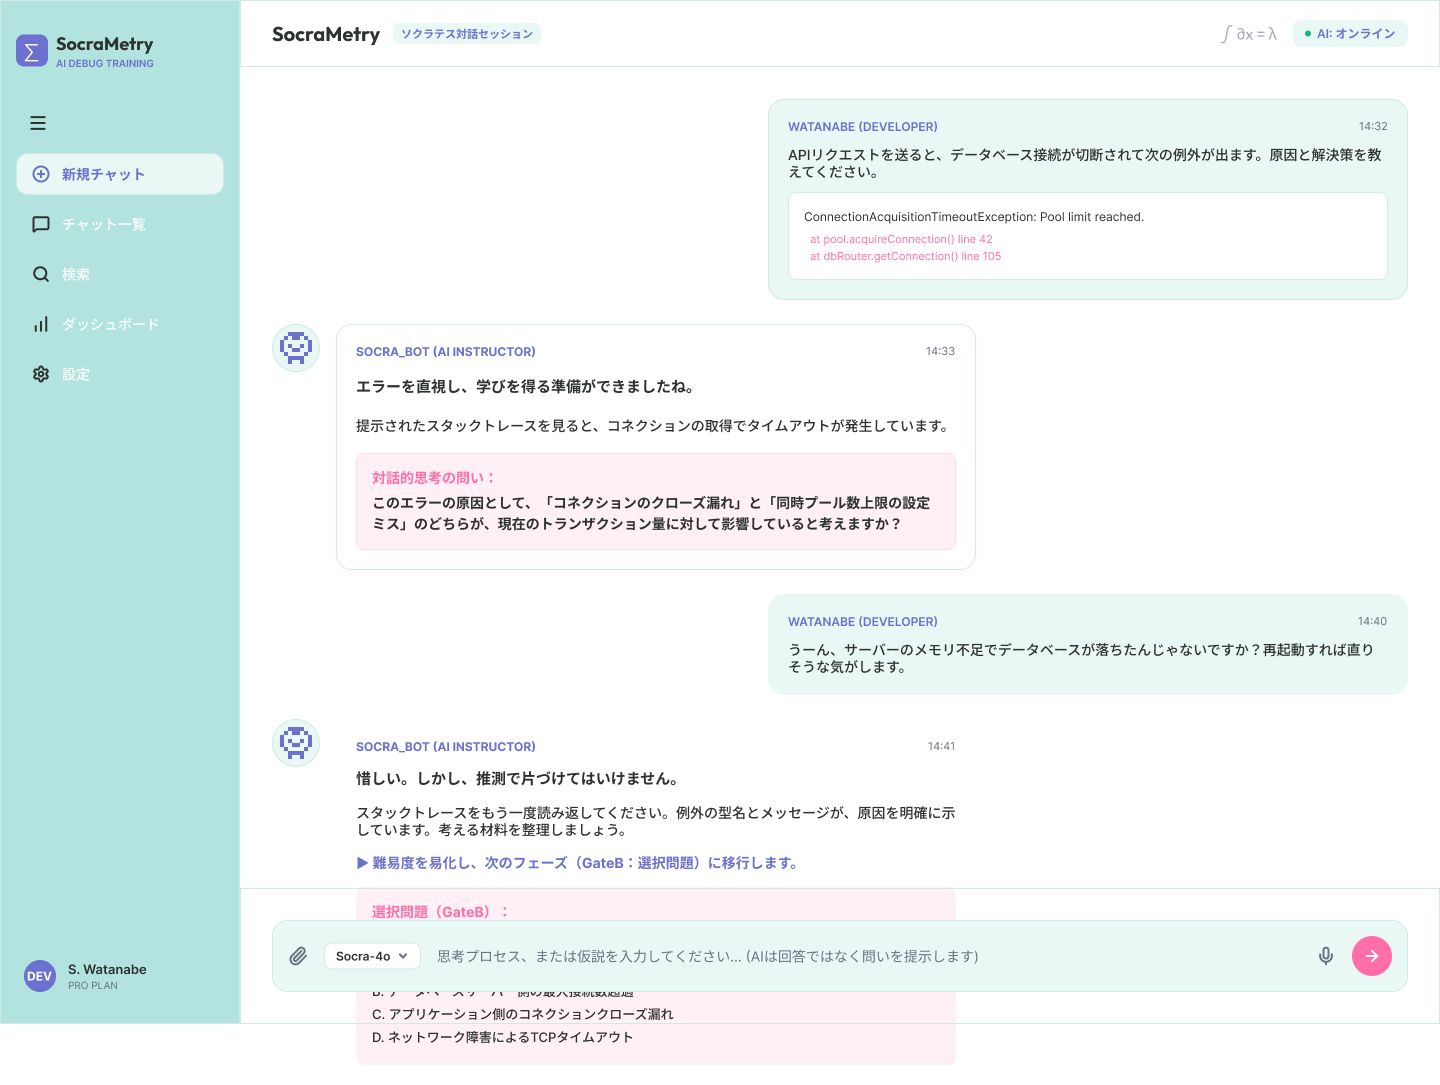
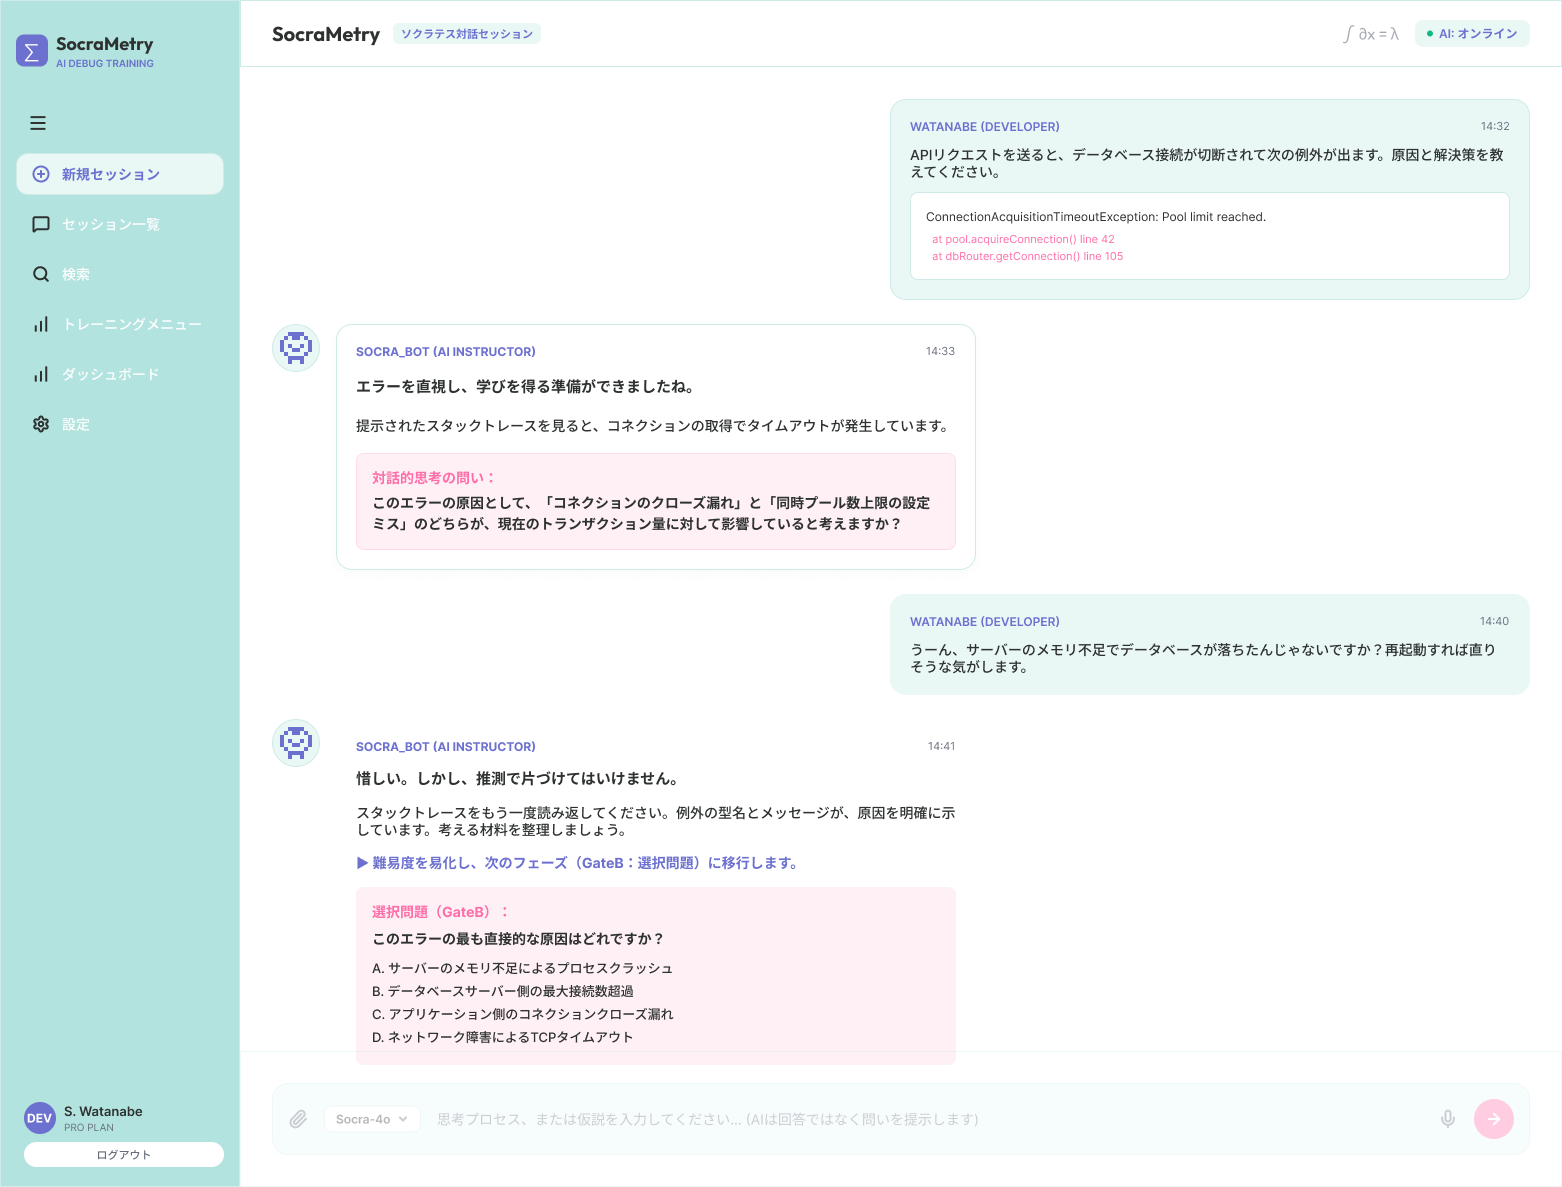
画面仕様と画面キャプチャを追加しました。

diff --git a/MOCK/screen-design.md b/MOCK/screen-design.md
@@ -1,0 +1,93 @@
+# SocraMetry 画面設計メモ
+
+## login-screen.png
+
+- アカウント新規作成タブと、ログインタブで分かれている。
+- 入力可能な構成はメールアドレス、ユーザー名、パスワード、招待コード
+- ユーザー名、招待コードは新規作成タブのみ表示されている。
+- トレーニングルームに入るボタンを押して、条件に満たしていたら chat-screen-start に遷移する。
+- 条件に満たしていなかったら login-screen-error のキャプチャのようになる。
+- モック画像には著作権マーク、利用規約、プライバシーポリシーがあるが、それらは生成しないこと。
+
+---
+
+## chat-screen-start.png
+
+- セッションに入ったら、モック画像のように SOCRA_BOT が答えを渡す場所ではないこと、本気で学ぶ従業員に本気で向き合う姿勢を示させること。
+- セッション画面の右上には AI のオンライン状況が示されている
+
+### メニュータブ
+
+- チャットが映るすべての画面共通で、左横にはハンバーガーメニュータブがあり、それぞれ新規セッション、セッション一覧、検索、トレーニングメニュー、ダッシュボード、設定計6つのボタンと、下にログインしているユーザーアカウント、ログアウトボタンがある。
+- 新規セッションはセッション入力画面。この画面。
+- セッション一覧はこれまでセッションしてきた履歴20件程度
+- 検索ボタンはこれまでのセッションを検索できる。
+- トレーニングメニューボタンを押したら training-menu-selection に遷移する
+- ダッシュボードボタンを押下したら dashboard-screen に遷移する
+- 設定ボタンで各種設定を行える（本バージョンでは未だ要件未定義）
+- ログアウトボタンでログアウトし、login-screen に遷移する
+
+### チャット入力欄
+
+- 左から言語選択ボタン、FW 選択ボタン、ファイル選択ボタン、チャット入力欄、文字数カウンター、音声ボタン、送信ボタンがある。
+- 言語選択ボタンでデバッグ対象の言語を選択できる。
+- FW ボタンでデバッグ対象の FW を選択できる。
+- ファイル選択ボタンで、デバッグ対象のファイルをアップロードできる（現バージョンでは非活性）
+- チャット入力欄にて、ユーザーはデバッグ対象のコード、エラーログ、または仮説を入力できる。
+  また、入力時は login-screen-mask が入力欄上部に開き、マスク対象を
+- 文字数カウンターで、入力した文字数をカウントできる。
+- 音声ボタンで、音声入力を行える。
+- 送信ボタンで入力内容を送信し、chat-screen-add-context になる
+- 言語選択ボタン、FW 選択ボタンについては前回のセッションを引き継ぐことができる。
+
+---
+
+## chat-screen-add-context.png
+
+- チャット入力欄が非活性になる。以降の動作では新規セッションに戻るか、特定のアクションをしないとチャットが入力できなくなる。
+- モック画面ではヒントに進む、設問に進む、原因が分かったボタンがあるがこのタイミングでは非表示とする。
+- ユーザーがデバッグ内容を入力した後、SOCRA_BOT から「調査します。確認するコード情報や状況を追加しますか？」送られる。
+- 追加するボタンを押すと、chat-screen-add-context-dialog が表示される。
+- しないボタンを押すと chat-screen-gate a にそのまま遷移される。
+
+---
+
+## chat-screen-add-context-dialog.png
+
+- chat-screen-add-context.png で追加するボタンを押下後、本画面のダイアログボックスが表示される
+- タイトルに関係するコードや状況を足す（任意）と書かれており、入力項目はそれぞれコード断片、直前にした変更、選択項目では言語、フレームワークが表示され、一番下にエラーを見てもらうボタンがある。
+  入力項目に関しては、未入力状態でもエラーを見てもらう押下で chat-screen-gate a に遷移できるようにする。
+- コード断片は関連するコードを入力できる
+- 直前にした変更では直前に行なったアクションや変更内容を入力できる
+- 言語、フレームワークはチャット入力欄で設定した内容が選択された状態になる
+- エラーを見てもらうボタンを押下し、chat-screen-gate a に遷移する。
+
+---
+
+## chat-screen-gate a.png
+
+- GateA に遷移し、SOCRA_BOT がモック画像のようにヒントのみを提示する。
+- チャット入力欄の上に初めてヒントに進む、設問に進む、原因が分かったのボタンが表示される。
+- ヒントに進むを押すと、SOCRA_BOT が正解なしの、ヒントを与えてくれる（モック用意なし）
+- 設問に進むを押すと、GateA → GateB に遷移し、今のゲートには戻って来れない旨のポップアップを表示し、OK を選択すると gate-a-fail-to-b に遷移する
+- 原因が分かったを押すと原因が分かったボタンとチャット入力欄、送信ボタンが活性化し、原因を入力する。ヒントに進む、設問に進むボタンが非活性になる。
+- 再度原因が分かったを押すとボタンや入力欄の状態が元に戻る。
+- 原因が分かったボタンを押した後、SOCRA_BOT から原因の深掘りを問われる。
+- 原因の深掘りを問われた際もチャット入力欄、送信ボタンなどが活性化される。
+- 原因の深掘りを入力し、送信して正解判定が出たら gate-a-pass にいく。
+
+---
+
+## gate-a-pass.png
+
+- SOCRA_BOT から正解を提示され、gateA で通過されたことに対して FB される
+- SOCRA_BOT の会話の下にレポート表示ボタンが押され、内容に基づいて report section1, report section2 のような会話がされる
+
+---
+
+## gate-a-fail-to-b.png
+
+- GateB に遷移し、SOCRA_BOT の会話内容がヒントを提示するだけの状態から、4択に切り替わる。
+- モックモード画面で採用されていたように複数のフェーズに対して4択が提示される。
+- 間違えた時の遷移状況は要確認
+-
